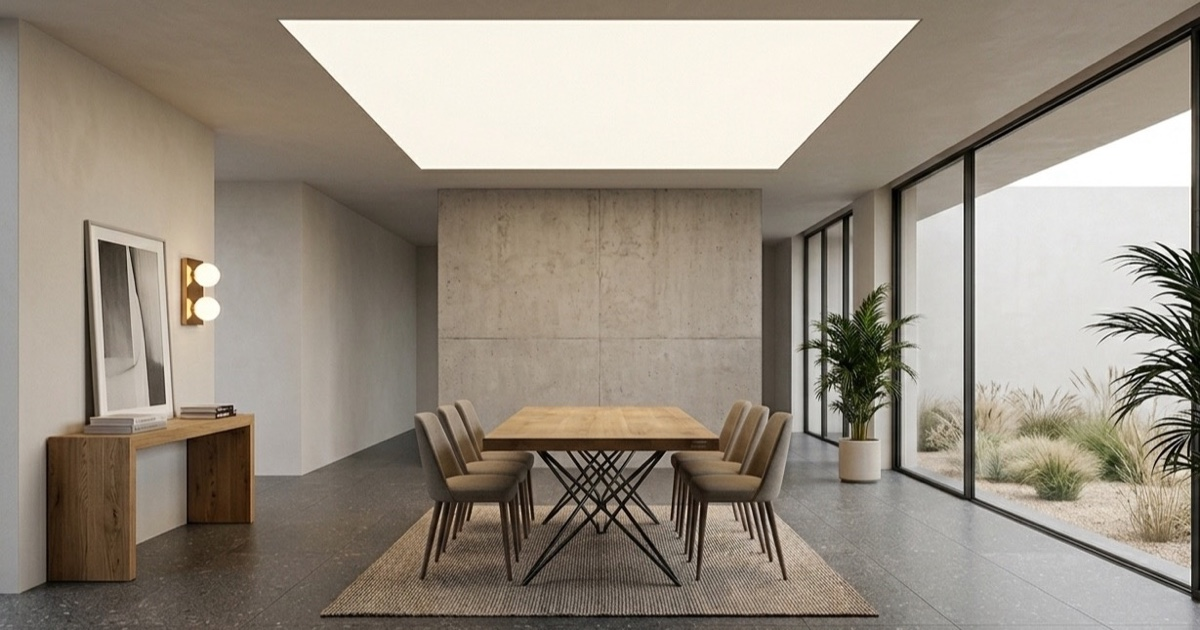
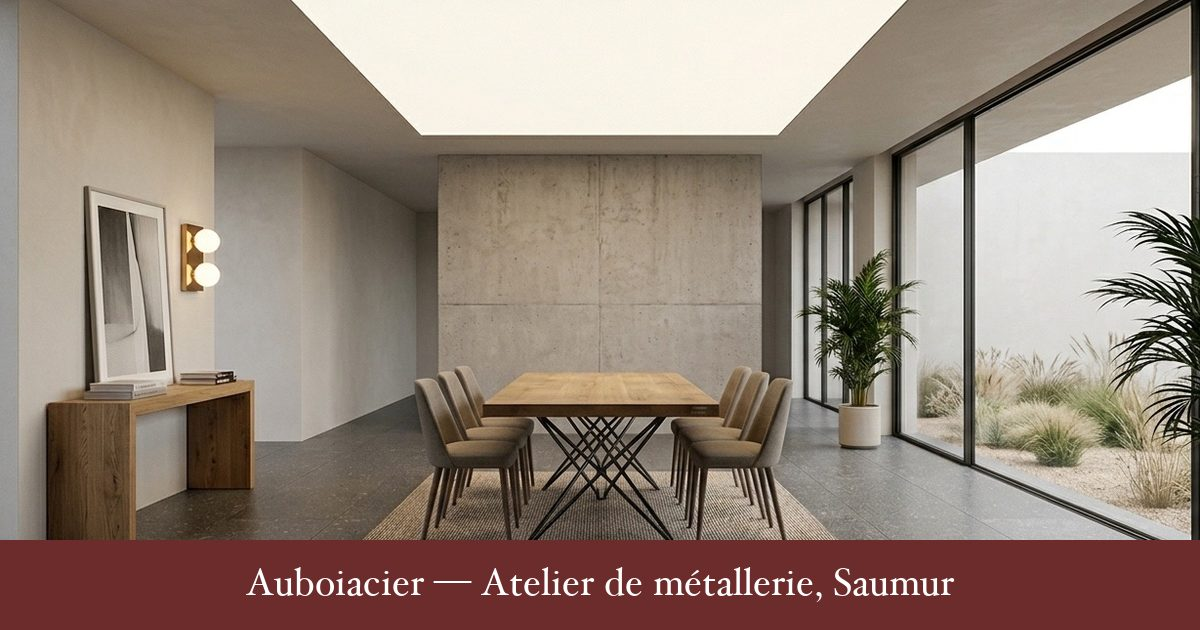
Images de partage 1200 × 630 : bandeau au nom de l'atelier, déclinaisons
L'image par défaut porte un bandeau « Auboiacier — Atelier de métallerie,
Saumur ». Quatre déclinaisons au format des réseaux pour les pages dont la
photo était rognée n'importe comment : boutique (Mikado), sculptures (cheval
composé avec un titre), Lucarne et Halo (photos carrées). Fabriquées par
scripts/images-partage.py.

diff --git a/src/app/[lang]/artisanat/sculptures/page.tsx b/src/app/[lang]/artisanat/sculptures/page.tsx
@@ -21,7 +21,9 @@ export async function generateMetadata({
     chemin: "/artisanat/sculptures",
     title: dict.seo.sculptures.title,
     description: dict.seo.sculptures.description,
-    image: "/images/sculpture-cheval-v2.jpg",
+    // La photo du cheval est un portrait : les réseaux n'en montraient que
+    // les deux tiers. Déclinaison composée au format 1200 × 630.
+    image: "/images/partage/sculptures.jpg",
   });
 }
 

diff --git a/src/app/[lang]/artisanat/page.tsx b/src/app/[lang]/artisanat/page.tsx
@@ -21,7 +21,9 @@ export async function generateMetadata({
     chemin: "/artisanat",
     title: dict.seo.artisanat.title,
     description: dict.seo.artisanat.description,
-    image: "/images/mikado/devant/noir.jpg",
+    // La photo de la Mikado est très allongée (2,5:1) : les réseaux la
+    // rognaient des deux côtés. Déclinaison fabriquée au format 1200 × 630.
+    image: "/images/partage/artisanat.jpg",
   });
 }
 

diff --git a/scripts/images-partage.py b/scripts/images-partage.py
@@ -1,0 +1,157 @@
+"""
+Les images de partage (Facebook, WhatsApp, LinkedIn, X…), au format que les
+réseaux attendent : 1200 × 630, soit 1,91:1.
+
+Les photos de l'atelier ont chacune leur format — carré pour les plafonds,
+portrait pour le cheval, très allongé pour la Mikado — et un réseau qui
+reçoit une photo hors format la rogne n'importe comment : le panneau coupé
+en deux, la sculpture tronquée aux deux tiers. On fabrique donc ici, une fois
+pour toutes, une déclinaison propre par page concernée, plus l'image par
+défaut du site avec son bandeau au nom de l'atelier.
+
+    python3 scripts/images-partage.py     # écrit public/images/partage/*.jpg
+                                          # et public/images/partage-auboiacier.jpg
+
+Ne dépend que de Pillow. La police des titres du site (Hoefler Text, voir
+src/app/globals.css) est cherchée sur le Mac ; à défaut, Georgia, puis la
+police par défaut de Pillow.
+"""
+
+from __future__ import annotations
+
+import os
+
+from PIL import Image, ImageDraw, ImageFont
+
+LARGEUR, HAUTEUR = 1200, 630
+QUALITE = 82
+BORDEAUX = (0x6D, 0x2C, 0x2C)
+FOND = (0xFB, 0xF9, 0xF6)
+ENCRE = (0x2B, 0x23, 0x20)
+GRIS = (0x6F, 0x63, 0x57)
+
+RACINE = os.path.join(os.path.dirname(__file__), "..")
+IMAGES = os.path.join(RACINE, "public", "images")
+SORTIE = os.path.join(IMAGES, "partage")
+
+POLICES = [
+    "/System/Library/Fonts/Supplemental/Hoefler Text.ttc",
+    "/System/Library/Fonts/Supplemental/Iowan Old Style.ttc",
+    "/System/Library/Fonts/Supplemental/Georgia.ttf",
+]
+
+
+def police(taille: int) -> ImageFont.FreeTypeFont | ImageFont.ImageFont:
+    for chemin in POLICES:
+        if os.path.exists(chemin):
+            return ImageFont.truetype(chemin, taille)
+    return ImageFont.load_default()
+
+
+def ouvrir(nom: str) -> Image.Image:
+    return Image.open(os.path.join(IMAGES, nom)).convert("RGB")
+
+
+def enregistrer(image: Image.Image, chemin: str) -> None:
+    assert image.size == (LARGEUR, HAUTEUR), image.size
+    os.makedirs(os.path.dirname(chemin), exist_ok=True)
+    image.save(chemin, "JPEG", quality=QUALITE, optimize=True, progressive=True)
+    print(f"{os.path.relpath(chemin, RACINE)}  {os.path.getsize(chemin) // 1024} Ko")
+
+
+def remplir(image: Image.Image, largeur: int, hauteur: int, centre_y: float = 0.5) -> Image.Image:
+    """Redimensionne pour couvrir largeur × hauteur, puis rogne ; `centre_y`
+    (0 = haut, 1 = bas) dit quelle partie de la photo garder."""
+    echelle = max(largeur / image.width, hauteur / image.height)
+    grande = image.resize((round(image.width * echelle), round(image.height * echelle)), Image.LANCZOS)
+    x = (grande.width - largeur) // 2
+    y = round((grande.height - hauteur) * centre_y)
+    return grande.crop((x, y, x + largeur, y + hauteur))
+
+
+def sur_fond_blanc(nom: str, cote: int, centre_y: float) -> Image.Image:
+    """Photo de studio carrée, sur fond blanc : on la réduit à `cote` px et on
+    la pose au milieu d'un fond blanc 1200 × 630 — le fond de la photo et
+    celui de l'image se confondent, l'objet reste entier."""
+    photo = ouvrir(nom).resize((cote, cote), Image.LANCZOS)
+    haut = round((cote - HAUTEUR) * centre_y)
+    bande = photo.crop((0, haut, cote, haut + HAUTEUR))
+    image = Image.new("RGB", (LARGEUR, HAUTEUR), (255, 255, 255))
+    image.paste(bande, ((LARGEUR - cote) // 2, 0))
+    return image
+
+
+def bandeau(image: Image.Image, texte: str, hauteur_bandeau: int = 90) -> Image.Image:
+    """Bandeau bordeaux en bas, texte blanc en serif : l'aperçu dit qui parle."""
+    ImageDraw.Draw(image).rectangle(
+        (0, HAUTEUR - hauteur_bandeau, LARGEUR, HAUTEUR), fill=BORDEAUX
+    )
+    dessin = ImageDraw.Draw(image)
+    fonte = police(38)
+    boite = dessin.textbbox((0, 0), texte, font=fonte)
+    x = (LARGEUR - (boite[2] - boite[0])) // 2 - boite[0]
+    y = HAUTEUR - hauteur_bandeau + (hauteur_bandeau - (boite[3] - boite[1])) // 2 - boite[1]
+    dessin.text((x, y), texte, font=fonte, fill=(255, 255, 255))
+    return image
+
+
+def image_defaut() -> Image.Image:
+    """Salle à manger sous le plafond lumineux, avec le bandeau de l'atelier."""
+    photo = remplir(ouvrir("salle-plafond-large.jpg"), LARGEUR, HAUTEUR - 90, centre_y=0.45)
+    image = Image.new("RGB", (LARGEUR, HAUTEUR), BORDEAUX)
+    image.paste(photo, (0, 0))
+    return bandeau(image, "Auboiacier — Atelier de métallerie, Saumur")
+
+
+def image_artisanat() -> Image.Image:
+    """La Mikado dans une pièce à vivre : la table et la lectrice au centre."""
+    return remplir(ouvrir("mikado/ambiance.jpg"), LARGEUR, HAUTEUR, centre_y=0.55)
+
+
+def image_sculptures() -> Image.Image:
+    """Le cheval est un portrait : on le pose à gauche, entier, et le titre à
+    droite sur le fond du site."""
+    image = Image.new("RGB", (LARGEUR, HAUTEUR), FOND)
+    photo = ouvrir("sculpture-cheval-v2.jpg")
+    largeur_photo = round(photo.width * HAUTEUR / photo.height)
+    image.paste(photo.resize((largeur_photo, HAUTEUR), Image.LANCZOS), (0, 0))
+
+    dessin = ImageDraw.Draw(image)
+    gauche = largeur_photo + 64
+    largeur_texte = LARGEUR - gauche - 56
+    y = 150
+    dessin.rectangle((gauche, y, gauche + 40, y + 2), fill=BORDEAUX)
+    y += 34
+    for ligne, taille, couleur in (
+        ("Sculptures", 74, ENCRE),
+        ("en acier", 74, ENCRE),
+    ):
+        dessin.text((gauche, y), ligne, font=police(taille), fill=couleur)
+        y += round(taille * 1.12)
+    y += 22
+    fonte = police(30)
+    for ligne in ("Pièces uniques, soudées à la main", "à Saumur, Maine-et-Loire."):
+        dessin.text((gauche, y), ligne, font=fonte, fill=GRIS)
+        y += 42
+    # Le nom de l'atelier, en bas à droite du panneau, comme une signature.
+    fonte = police(30)
+    boite = dessin.textbbox((0, 0), "Auboiacier", font=fonte)
+    dessin.text((gauche, HAUTEUR - 72 - boite[3]), "Auboiacier", font=fonte, fill=BORDEAUX)
+    assert largeur_texte > 400
+    return image
+
+
+def image_lucarne() -> Image.Image:
+    return sur_fond_blanc("lumiere/panneau-dessous-carre.jpg", 980, centre_y=0.5)
+
+
+def image_halo() -> Image.Image:
+    return sur_fond_blanc("lumiere/rond-dessous-carre.jpg", 980, centre_y=0.5)
+
+
+if __name__ == "__main__":
+    enregistrer(image_defaut(), os.path.join(IMAGES, "partage-auboiacier.jpg"))
+    enregistrer(image_artisanat(), os.path.join(SORTIE, "artisanat.jpg"))
+    enregistrer(image_sculptures(), os.path.join(SORTIE, "sculptures.jpg"))
+    enregistrer(image_lucarne(), os.path.join(SORTIE, "lucarne.jpg"))
+    enregistrer(image_halo(), os.path.join(SORTIE, "halo.jpg"))
